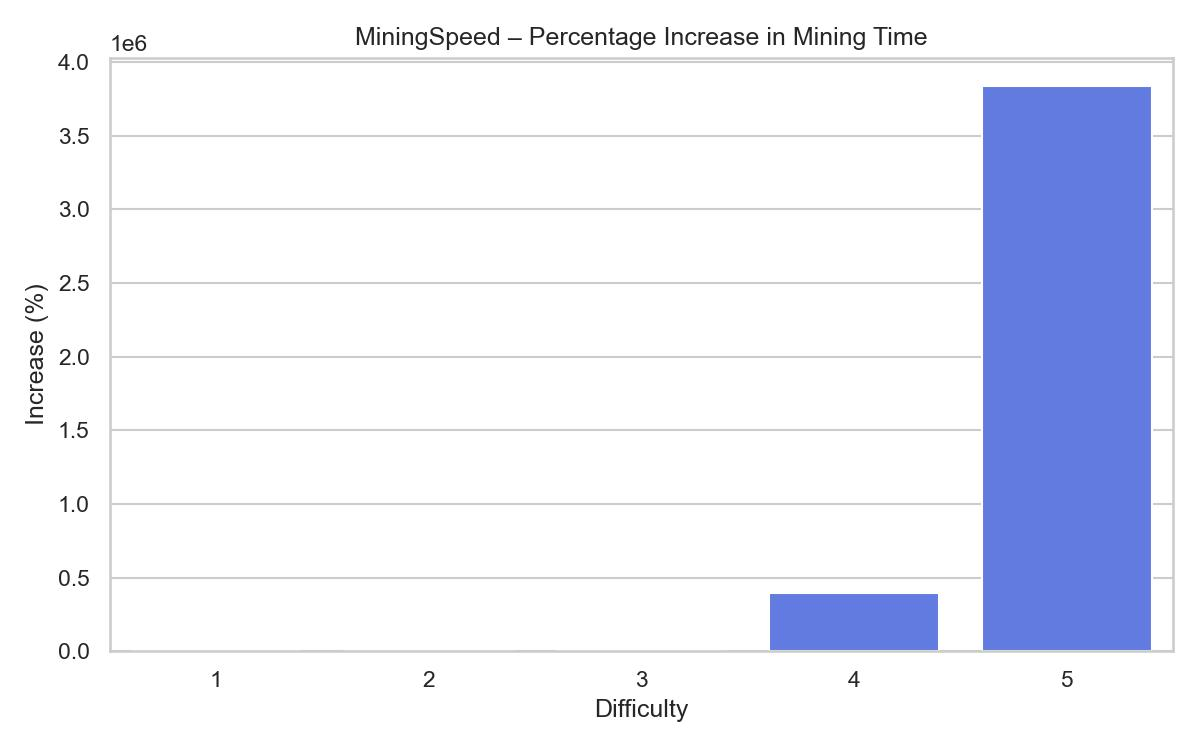
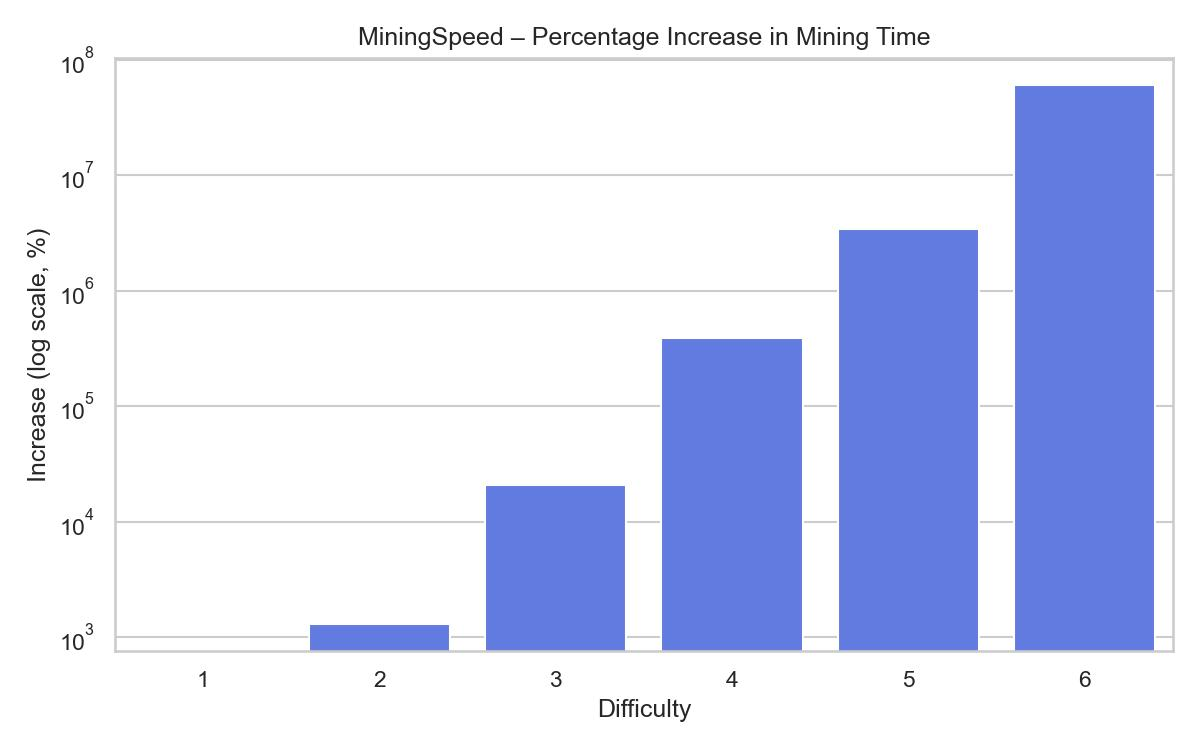
graphs

diff --git a/graphs_bc/mining_speed_perc.py b/graphs_bc/mining_speed_perc.py
@@ -1,0 +1,19 @@
+import pandas as pd
+
+df = pd.read_csv("./mining_speed_metrics.csv")
+
+avg = df.groupby("difficulty")["duration_ms"].mean().reset_index()
+avg["pct_increase_from_prev"] = avg["duration_ms"].pct_change() * 100
+
+inc_3to4 = avg.loc[avg["difficulty"] == 4, "pct_increase_from_prev"].values[0]
+inc_4to5 = avg.loc[avg["difficulty"] == 5, "pct_increase_from_prev"].values[0]
+inc_5to6 = avg.loc[avg["difficulty"] == 6, "pct_increase_from_prev"].values[0]
+
+val3 = avg.loc[avg["difficulty"] == 3, "duration_ms"].values[0]
+val4 = avg.loc[avg["difficulty"] == 4, "duration_ms"].values[0]
+val5 = avg.loc[avg["difficulty"] == 5, "duration_ms"].values[0]
+val6 = avg.loc[avg["difficulty"] == 6, "duration_ms"].values[0]
+
+print(f"📈 Aumento de {inc_3to4:.2f}% entre as dificuldades 3 e 4.")
+print(f"📈 Aumento de {inc_4to5:.2f}% entre as dificuldades 4 e 5.")
+print(f"📈 Aumento de {inc_5to6:.2f}% entre as dificuldades 5 e 6.")

diff --git a/graphs_bc/mining_speed.py b/graphs_bc/mining_speed.py
@@ -18,8 +18,10 @@ sns.set_theme(style="whitegrid")
 plt.figure(figsize=(8, 5))
 sns.barplot(x="difficulty", y="pct_increase", data=avg, color="#4C6EF5")
 plt.title(f"{TEST_NAME} – Percentage Increase in Mining Time")
+plt.yscale("log")
+plt.ylabel("Increase (log scale, %)")
 plt.xlabel("Difficulty")
-plt.ylabel("Increase (%)")
+# plt.ylabel("Increase (%)")
 plt.tight_layout()
 
 out_perc = os.path.join(OUTPUT_DIR, f"{TEST_NAME}_bar_perc_.jpg")
